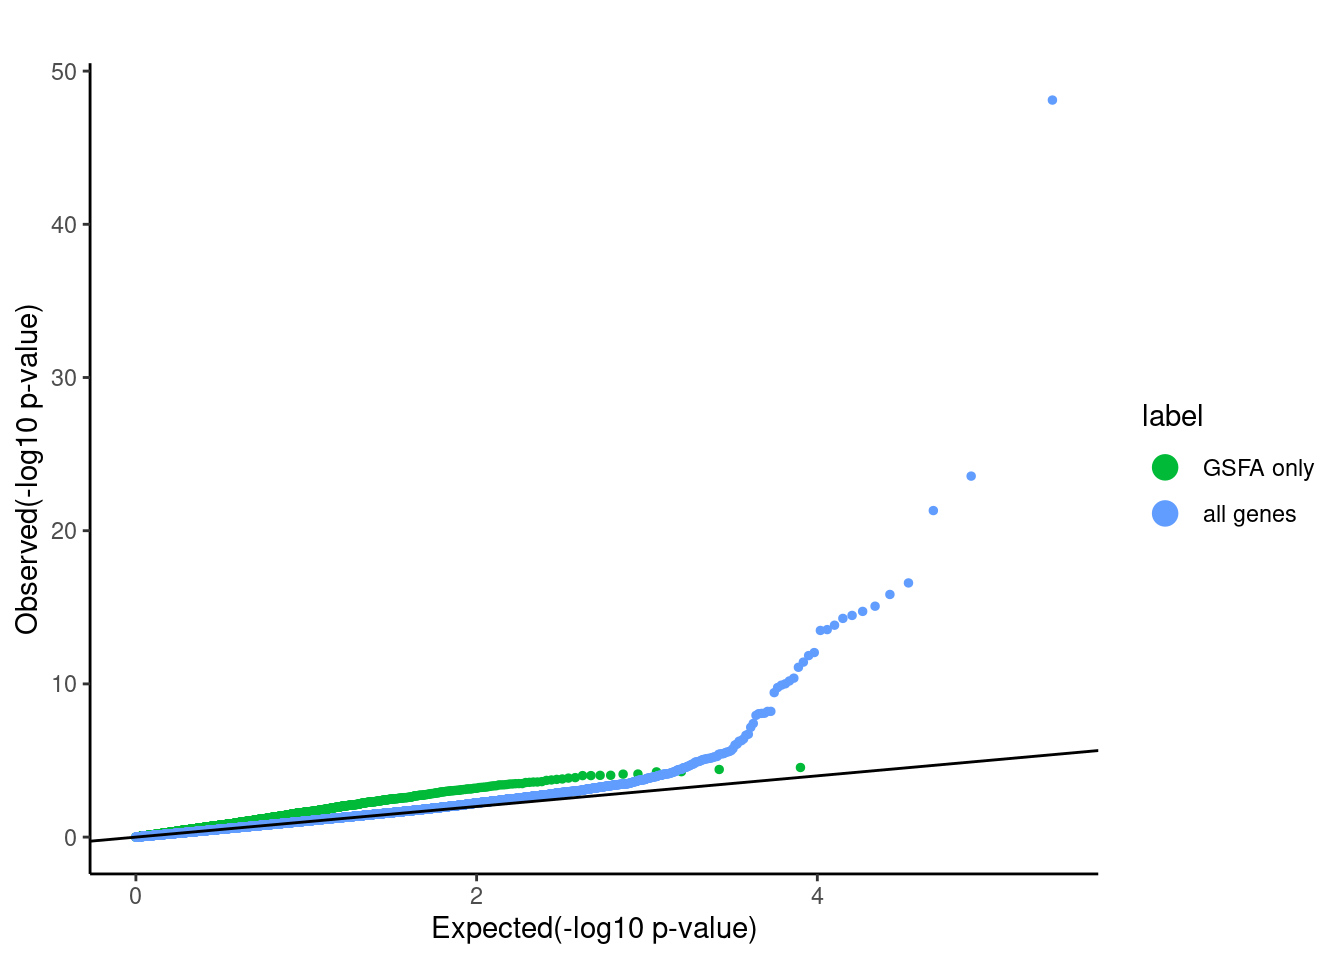
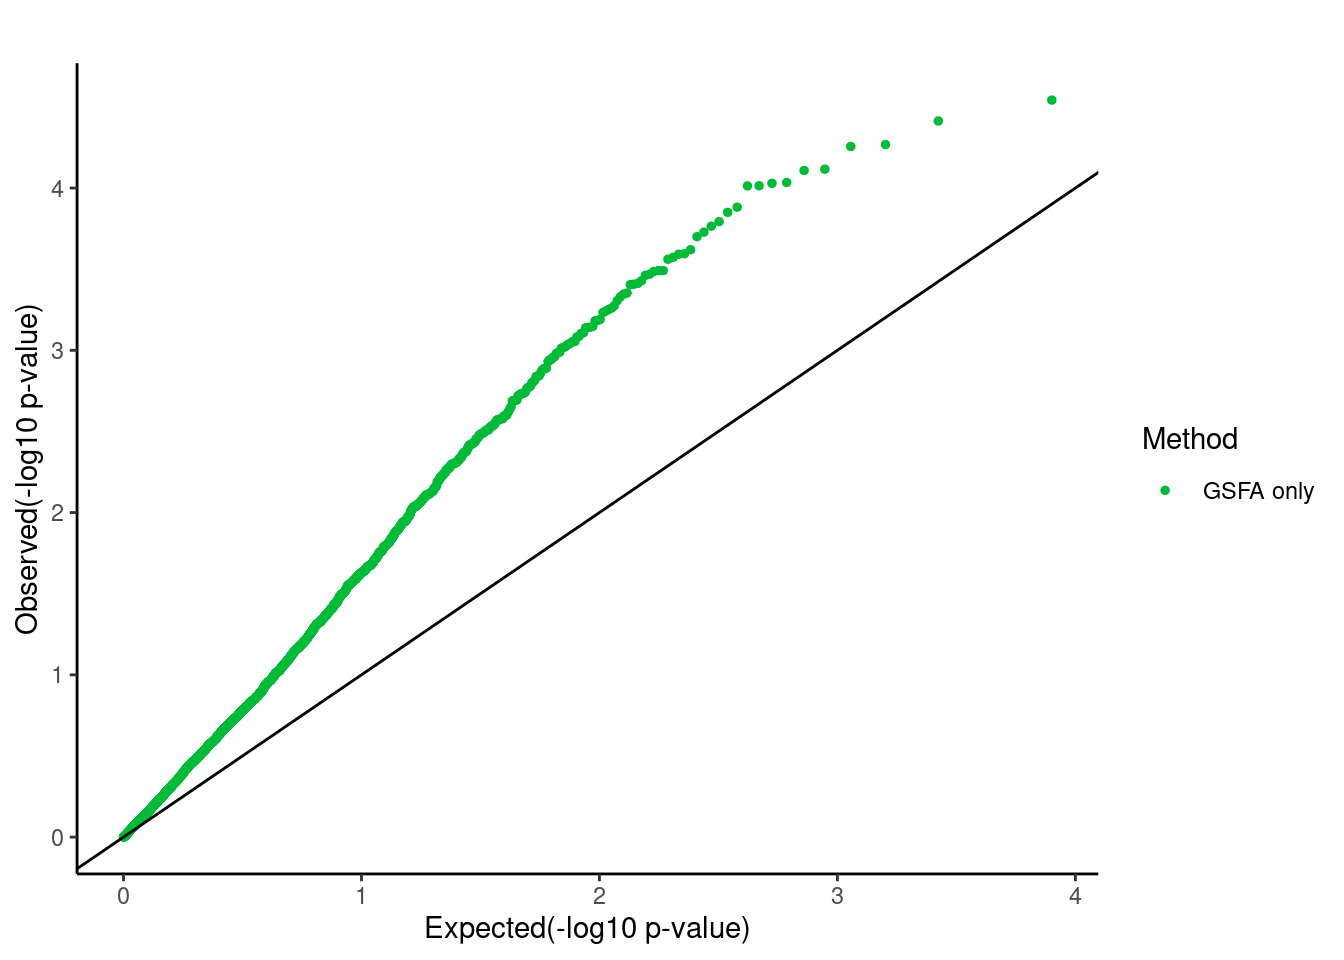
Build site.

diff --git a/docs/compare_gsfa_mast_degs.html b/docs/compare_gsfa_mast_degs.html
@@ -394,7 +394,7 @@ div.tocify {
 <div class="tab-content">
 <div id="summary" class="tab-pane fade in active">
 <p>
-<strong>Last updated:</strong> 2022-09-03
+<strong>Last updated:</strong> 2022-09-05
 </p>
 <p>
 <strong>Checks:</strong> <span class="glyphicon glyphicon-ok text-success" aria-hidden="true"></span> 7 <span class="glyphicon glyphicon-exclamation-sign text-danger" aria-hidden="true"></span> 0
@@ -485,16 +485,16 @@ This reproducible <a href="https://rmarkdown.rstudio.com">R Markdown</a> analysi
 <div class="panel panel-default">
 <div class="panel-heading">
 <p class="panel-title">
-<a data-toggle="collapse" data-parent="#workflowr-checks" href="#strongRepositoryversionstrongahrefhttpsgithubcomkevinlkxGSFAanalysistree9cd02e474b02797d51794dd3d5f6b46c10ea1a29targetblank9cd02e4a"> <span class="glyphicon glyphicon-ok text-success" aria-hidden="true"></span> <strong>Repository version:</strong> <a href="https://github.com/kevinlkx/GSFA-analysis/tree/9cd02e474b02797d51794dd3d5f6b46c10ea1a29" target="_blank">9cd02e4</a> </a>
+<a data-toggle="collapse" data-parent="#workflowr-checks" href="#strongRepositoryversionstrongahrefhttpsgithubcomkevinlkxGSFAanalysistreeb0c058d650aa0530b485b4e9a4008024f9018b36targetblankb0c058da"> <span class="glyphicon glyphicon-ok text-success" aria-hidden="true"></span> <strong>Repository version:</strong> <a href="https://github.com/kevinlkx/GSFA-analysis/tree/b0c058d650aa0530b485b4e9a4008024f9018b36" target="_blank">b0c058d</a> </a>
 </p>
 </div>
[2 lines of base64/hex data omitted]
 <div class="panel-body">
 <p>
 Great! You are using Git for version control. Tracking code development and connecting the code version to the results is critical for reproducibility.
 </p>
 <p>
-The results in this page were generated with repository version <a href="https://github.com/kevinlkx/GSFA-analysis/tree/9cd02e474b02797d51794dd3d5f6b46c10ea1a29" target="_blank">9cd02e4</a>. See the <em>Past versions</em> tab to see a history of the changes made to the R Markdown and HTML files.
+The results in this page were generated with repository version <a href="https://github.com/kevinlkx/GSFA-analysis/tree/b0c058d650aa0530b485b4e9a4008024f9018b36" target="_blank">b0c058d</a>. See the <em>Past versions</em> tab to see a history of the changes made to the R Markdown and HTML files.
 </p>
 <p>
 Note that you need to be careful to ensure that all relevant files for the analysis have been committed to Git prior to generating the results (you can use <code>wflow_publish</code> or <code>wflow_git_commit</code>). workflowr only checks the R Markdown file, but you know if there are other scripts or data files that it depends on. Below is the status of the Git repository when the results were generated:
@@ -578,6 +578,40 @@ Message
 </tr>
 </thead>
 <tbody>
+<tr>
+<td>
+Rmd
+</td>
+<td>
+<a href="https://github.com/kevinlkx/GSFA-analysis/blob/b0c058d650aa0530b485b4e9a4008024f9018b36/analysis/compare_gsfa_mast_degs.Rmd" target="_blank">b0c058d</a>
+</td>
+<td>
+kevinlkx
+</td>
+<td>
+2022-09-05
+</td>
+<td>
+updated qqplots for gsfa only
+</td>
+</tr>
+<tr>
+<td>
+html
+</td>
+<td>
+<a href="https://rawcdn.githack.com/kevinlkx/GSFA-analysis/00603ad6aaba63039498798a3e3d156b1d138e74/docs/compare_gsfa_mast_degs.html" target="_blank">00603ad</a>
+</td>
+<td>
+kevinlkx
+</td>
+<td>
+2022-09-03
+</td>
+<td>
+Build site.
+</td>
+</tr>
 <tr>
 <td>
 Rmd
@@ -803,6 +837,17 @@ Date
 <tbody>
 <tr>
 <td>
+<a href="https://github.com/kevinlkx/GSFA-analysis/blob/00603ad6aaba63039498798a3e3d156b1d138e74/docs/figure/compare_gsfa_mast_degs.Rmd/LUHMES-qqplots-gsfa-mast-all-combined-1.png" target="_blank">00603ad</a>
+</td>
+<td>
+kevinlkx
+</td>
+<td>
+2022-09-03
+</td>
+</tr>
+<tr>
+<td>
 <a href="https://github.com/kevinlkx/GSFA-analysis/blob/7d407685145bfad95afd14b26931f6daea0c4434/docs/figure/compare_gsfa_mast_degs.Rmd/LUHMES-qqplots-gsfa-mast-all-combined-1.png" target="_blank">7d40768</a>
 </td>
 <td>
@@ -874,6 +919,17 @@ Date
 <tbody>
 <tr>
 <td>
+<a href="https://github.com/kevinlkx/GSFA-analysis/blob/00603ad6aaba63039498798a3e3d156b1d138e74/docs/figure/compare_gsfa_mast_degs.Rmd/LUHMES_gsfa_mast_degs_qqplot_v2-1.png" target="_blank">00603ad</a>
+</td>
+<td>
+kevinlkx
+</td>
+<td>
+2022-09-03
+</td>
+</tr>
+<tr>
+<td>
 <a href="https://github.com/kevinlkx/GSFA-analysis/blob/7d407685145bfad95afd14b26931f6daea0c4434/docs/figure/compare_gsfa_mast_degs.Rmd/LUHMES_gsfa_mast_degs_qqplot_v2-1.png" target="_blank">7d40768</a>
 </td>
 <td>
@@ -903,14 +959,13 @@ for(m in guides){
   combined_mast_res &lt;- rbind(combined_mast_res, mast_res)
 }
 
-pvalue_list &lt;- list(&#39;GSFA only&#39;=dplyr::filter(combined_mast_res,gsfa_only_gene==1)$PValue,
-                    &#39;all genes&#39;=combined_mast_res$PValue)
+pvalue_list &lt;- list(&#39;GSFA only&#39;=dplyr::filter(combined_mast_res,gsfa_only_gene==1)$PValue)
 
 # pdf(file.path(res_dir, &quot;Tcells_gsfa_mast_degs_qqplot_v2.pdf&quot;))
 qqplot.pvalue(pvalue_list, pointSize = 1, legendSize = 4) + 
   ggtitle(&quot;&quot;) + theme(plot.title = element_text(hjust = 0.5)) +
-  scale_colour_discrete(name=&quot;Method&quot;) + 
-  scale_color_manual(values=c(&quot;#00BA38&quot;,&quot;#619CFF&quot;))</code></pre>
+  guides(color=guide_legend(title=&quot;Method&quot;)) +
+  scale_color_manual(values=c(&quot;#00BA38&quot;))</code></pre>
 <p><img src="figure/compare_gsfa_mast_degs.Rmd/LUHMES_gsfa_only_degs_qqplot-1.png" width="672" style="display: block; margin: auto;" /></p>
 <p>
 <button type="button" class="btn btn-default btn-xs btn-workflowr btn-workflowr-fig" data-toggle="collapse" data-target="#fig-LUHMES_gsfa_only_degs_qqplot-1">
@@ -934,6 +989,17 @@ Date
 </tr>
 </thead>
 <tbody>
+<tr>
+<td>
+<a href="https://github.com/kevinlkx/GSFA-analysis/blob/00603ad6aaba63039498798a3e3d156b1d138e74/docs/figure/compare_gsfa_mast_degs.Rmd/LUHMES_gsfa_only_degs_qqplot-1.png" target="_blank">00603ad</a>
+</td>
+<td>
+kevinlkx
+</td>
+<td>
+2022-09-03
+</td>
+</tr>
 <tr>
 <td>
 <a href="https://github.com/kevinlkx/GSFA-analysis/blob/7d407685145bfad95afd14b26931f6daea0c4434/docs/figure/compare_gsfa_mast_degs.Rmd/LUHMES_gsfa_only_degs_qqplot-1.png" target="_blank">7d40768</a>
@@ -1142,6 +1208,17 @@ Date
 <tbody>
 <tr>
 <td>
+<a href="https://github.com/kevinlkx/GSFA-analysis/blob/00603ad6aaba63039498798a3e3d156b1d138e74/docs/figure/compare_gsfa_mast_degs.Rmd/Tcells-qqplots-gsfa-mast-all-combined-1.png" target="_blank">00603ad</a>
+</td>
+<td>
+kevinlkx
+</td>
+<td>
+2022-09-03
+</td>
+</tr>
+<tr>
+<td>
 <a href="https://github.com/kevinlkx/GSFA-analysis/blob/7d407685145bfad95afd14b26931f6daea0c4434/docs/figure/compare_gsfa_mast_degs.Rmd/Tcells-qqplots-gsfa-mast-all-combined-1.png" target="_blank">7d40768</a>
 </td>
 <td>
@@ -1213,6 +1290,17 @@ Date
 <tbody>
 <tr>
 <td>
+<a href="https://github.com/kevinlkx/GSFA-analysis/blob/00603ad6aaba63039498798a3e3d156b1d138e74/docs/figure/compare_gsfa_mast_degs.Rmd/Tcells_gsfa_mast_degs_qqplot_v2-1.png" target="_blank">00603ad</a>
+</td>
+<td>
+kevinlkx
+</td>
+<td>
+2022-09-03
+</td>
+</tr>
+<tr>
+<td>
 <a href="https://github.com/kevinlkx/GSFA-analysis/blob/7d407685145bfad95afd14b26931f6daea0c4434/docs/figure/compare_gsfa_mast_degs.Rmd/Tcells_gsfa_mast_degs_qqplot_v2-1.png" target="_blank">7d40768</a>
 </td>
 <td>
@@ -1242,14 +1330,13 @@ for(m in guides){
   combined_mast_res &lt;- rbind(combined_mast_res, mast_res)
 }
 
-pvalue_list &lt;- list(&#39;GSFA only&#39;=dplyr::filter(combined_mast_res,gsfa_only_gene==1)$PValue,
-                    &#39;all genes&#39;=combined_mast_res$PValue)
+pvalue_list &lt;- list(&#39;GSFA only&#39;=dplyr::filter(combined_mast_res,gsfa_only_gene==1)$PValue)
 
 # pdf(file.path(res_dir, &quot;Tcells_gsfa_mast_degs_qqplot_v2.pdf&quot;))
 qqplot.pvalue(pvalue_list, pointSize = 1, legendSize = 4) + 
   ggtitle(&quot;&quot;) + theme(plot.title = element_text(hjust = 0.5)) +
-  scale_colour_discrete(name=&quot;Method&quot;) + 
-  scale_color_manual(values=c(&quot;#00BA38&quot;,&quot;#619CFF&quot;))</code></pre>
+  guides(color=guide_legend(title=&quot;Method&quot;)) +
+  scale_color_manual(values=c(&quot;#00BA38&quot;))</code></pre>
 <p><img src="figure/compare_gsfa_mast_degs.Rmd/Tcells_gsfa_only_degs_qqplot-1.png" width="672" style="display: block; margin: auto;" /></p>
 <p>
 <button type="button" class="btn btn-default btn-xs btn-workflowr btn-workflowr-fig" data-toggle="collapse" data-target="#fig-Tcells_gsfa_only_degs_qqplot-1">
@@ -1273,6 +1360,17 @@ Date
 </tr>
 </thead>
 <tbody>
+<tr>
+<td>
+<a href="https://github.com/kevinlkx/GSFA-analysis/blob/00603ad6aaba63039498798a3e3d156b1d138e74/docs/figure/compare_gsfa_mast_degs.Rmd/Tcells_gsfa_only_degs_qqplot-1.png" target="_blank">00603ad</a>
+</td>
+<td>
+kevinlkx
+</td>
+<td>
+2022-09-03
+</td>
+</tr>
 <tr>
 <td>
 <a href="https://github.com/kevinlkx/GSFA-analysis/blob/7d407685145bfad95afd14b26931f6daea0c4434/docs/figure/compare_gsfa_mast_degs.Rmd/Tcells_gsfa_only_degs_qqplot-1.png" target="_blank">7d40768</a>
